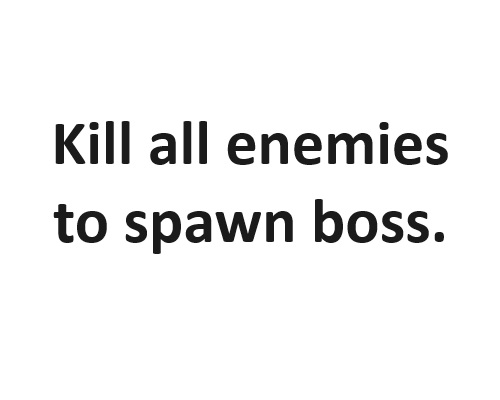
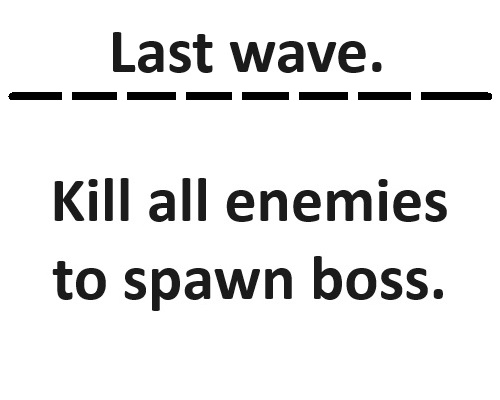
Add Menu Kill All To Win.

diff --git a/app/jni/src/playState/PlayStateGUILayer.cpp b/app/jni/src/playState/PlayStateGUILayer.cpp
@@ -75,7 +75,8 @@ namespace MagneticBall3D
         m_resurrectButtonOkTexture = Beryll::Renderer::createTexture("GUI/Ok.jpg", Beryll::TextureType::DIFFUSE_TEXTURE_MAT_1);
         m_resurrectNoCrystalsTexture = Beryll::Renderer::createTexture("GUI/playState/ResurrectNoCrystals.jpg", Beryll::TextureType::DIFFUSE_TEXTURE_MAT_1);
         m_loseTexture = Beryll::Renderer::createTexture("GUI/playState/Lose.jpg", Beryll::TextureType::DIFFUSE_TEXTURE_MAT_1);
-        m_killAllTexture = Beryll::Renderer::createTexture("GUI/playState/KillAllEnemiesToSpawnBoss.jpg", Beryll::TextureType::DIFFUSE_TEXTURE_MAT_1);
+        m_killAllToSpawnBossTexture = Beryll::Renderer::createTexture("GUI/playState/KillAllEnemiesToSpawnBoss.jpg", Beryll::TextureType::DIFFUSE_TEXTURE_MAT_1);
+        m_killAllToWinTexture = Beryll::Renderer::createTexture("GUI/playState/KillAllEnemiesToWin.jpg", Beryll::TextureType::DIFFUSE_TEXTURE_MAT_1);
         m_killAllButtonOkTexture = Beryll::Renderer::createTexture("GUI/Ok.jpg", Beryll::TextureType::DIFFUSE_TEXTURE_MAT_1);
         m_winTexture = Beryll::Renderer::createTexture("GUI/playState/Win.jpg", Beryll::TextureType::DIFFUSE_TEXTURE_MAT_1);
         m_winButtonOkTexture = Beryll::Renderer::createTexture("GUI/Ok.jpg", Beryll::TextureType::DIFFUSE_TEXTURE_MAT_1);
@@ -397,13 +398,22 @@ namespace MagneticBall3D
             ImGui::End();
         }
 
+        // Menu kill all can be before boss or without boss.
         if(m_menuKillAllEnabled)
         {
             ImGui::SetNextWindowPos(ImVec2(0.2f * Beryll::MainImGUI::getInstance()->getGUIWidth(), 0.25f * Beryll::MainImGUI::getInstance()->getGUIHeight()));
             ImGui::SetNextWindowSize(ImVec2(0.0f, 0.0f));
             ImGui::Begin(m_killAllTextureID.c_str(), nullptr, m_noBackgroundNoFrame);
-            ImGui::Image(reinterpret_cast<ImTextureID>(m_killAllTexture->getID()),
-                         ImVec2(0.6f * Beryll::MainImGUI::getInstance()->getGUIWidth(), 0.25f * Beryll::MainImGUI::getInstance()->getGUIHeight()));
+            if(m_killAllToSpawnBoss) // Show message to spawn boss.
+            {
+                ImGui::Image(reinterpret_cast<ImTextureID>(m_killAllToSpawnBossTexture->getID()),
+                             ImVec2(0.6f * Beryll::MainImGUI::getInstance()->getGUIWidth(), 0.25f * Beryll::MainImGUI::getInstance()->getGUIHeight()));
+            }
+            else // Show message to win without boss.
+            {
+                ImGui::Image(reinterpret_cast<ImTextureID>(m_killAllToWinTexture->getID()),
+                             ImVec2(0.6f * Beryll::MainImGUI::getInstance()->getGUIWidth(), 0.25f * Beryll::MainImGUI::getInstance()->getGUIHeight()));
+            }
             ImGui::End();
 
             ImGui::SetNextWindowPos(ImVec2(0.35f * Beryll::MainImGUI::getInstance()->getGUIWidth(), 0.5f * Beryll::MainImGUI::getInstance()->getGUIHeight()));
@@ -477,12 +487,26 @@ namespace MagneticBall3D
         m_timeAppearsOnScreen = Beryll::TimeStep::getSecFromStart();
     }
 
-    void PlayStateGUILayer::showMenuKillAllBeforeBoss()
+    void PlayStateGUILayer::showMenuKillAllToSpawnBoss()
     {
         if(m_menuKillAllEnabled)
             return;
 
         m_menuKillAllEnabled = true;
+        m_killAllToSpawnBoss = true;
+
+        GameStateHelper::pauseGame();
+
+        m_timeAppearsOnScreen = Beryll::TimeStep::getSecFromStart();
+    }
+
+    void PlayStateGUILayer::showMenuKillAllToWin()
+    {
+        if(m_menuKillAllEnabled)
+            return;
+
+        m_menuKillAllEnabled = true;
+        m_killAllToSpawnBoss = false;
 
         GameStateHelper::pauseGame();
 

diff --git a/app/jni/src/maps/Map1.cpp b/app/jni/src/maps/Map1.cpp
@@ -339,7 +339,7 @@ namespace MagneticBall3D
             }
         }
 
-        for(int i = 0; i < 5; ++i) // 5 * 5 = 25
+        for(int i = 0; i < 4; ++i) // 4 * 5 = 20
         {
             const auto garbageCopShield = Beryll::SimpleCollidingObject::loadManyModelsFromOneFile("models3D/map1/GarbageCopShield_5items.fbx",
                                                                                                    EnumsAndVars::garbageMass,
@@ -363,7 +363,7 @@ namespace MagneticBall3D
             }
         }
 
-        for(int i = 0; i < 5; ++i) // 5 * 4 = 20
+        for(int i = 0; i < 6; ++i) // 6 * 3 = 18
         {
             const auto garbageCopGrenade = Beryll::SimpleCollidingObject::loadManyModelsFromOneFile("models3D/map1/GarbageCopGrenade_3items.fbx",
                                                                                                     EnumsAndVars::garbageMass,
@@ -411,7 +411,7 @@ namespace MagneticBall3D
             }
         }
 
-        for(int i = 0; i < 5; ++i) // 5 * 3 = 15
+        for(int i = 0; i < 6; ++i) // 6 * 3 = 18
         {
             const auto garbageTank = Beryll::SimpleCollidingObject::loadManyModelsFromOneFile("models3D/map1/GarbageTank_3items.fbx",
                                                                                               EnumsAndVars::garbageMass,
@@ -1047,9 +1047,9 @@ namespace MagneticBall3D
 
             BR_INFO("Prepare wave 12. Max enemies: %d", EnumsAndVars::enemiesMaxActiveCountOnGround);
         }
-        else if(m_prepareToBoss && EnumsAndVars::mapPlayTimeSec > m_prepareToBossTime)
+        else if(m_prepareLastWave && EnumsAndVars::mapPlayTimeSec > m_prepareLastWaveTime)
         {
-            m_prepareToBoss = false;
+            m_prepareLastWave = false;
 
             EnumsAndVars::enemiesMaxActiveCountOnGround = 0;
 
@@ -1058,9 +1058,9 @@ namespace MagneticBall3D
                 enemy->isCanBeSpawned = false;
             }
 
-            prepareToBossPhase();
+            BR_INFO("enemiesLastWavePhase(). Max enemies: %d", EnumsAndVars::enemiesMaxActiveCountOnGround);
 
-            BR_INFO("prepareToBossPhase(). Max enemies: %d", EnumsAndVars::enemiesMaxActiveCountOnGround);
+            lastWaveToBossPhase();
         }
 
         bool sortSnipersPositions = true;
@@ -1134,8 +1134,8 @@ namespace MagneticBall3D
         BR_INFO("%s", "startBossPhase()");
 
         m_gui->showMenuBossTankWithCommander();
+        EnumsAndVars::enemiesLastWavePhase = false;
         EnumsAndVars::bossPhase = true;
-        EnumsAndVars::prepareToBossPhase = false;
 
         // Enable boss.
         m_boss->enableBoss();

diff --git a/app/jni/src/maps/Map2.cpp b/app/jni/src/maps/Map2.cpp
@@ -21,7 +21,7 @@ namespace MagneticBall3D
 
         // Specific for this map only.
         loadPlayer();
-        m_player->getObj()->setOrigin(glm::vec3(-770.0f, 2.0f,-520.0f));
+        m_player->getObj()->setOrigin(glm::vec3(-120.0f, 2.0f,450.0f));
         m_improvements.setPlayer(m_player);
         Beryll::LoadingScreen::showProgress(20.0f);
         loadEnv();
@@ -40,7 +40,7 @@ namespace MagneticBall3D
         StaticEnemy::spawnDelay = 40.0f;
 
         loadShaders();
-        m_cameraOffset = glm::normalize(glm::vec3(-1.0f, 0.0f, -0.5f));
+        m_cameraOffset = glm::normalize(glm::vec3(0.5f, 0.0f, 1.0f));
         handleCamera();
 
         m_minX = -800.0f;
@@ -1054,9 +1054,9 @@ namespace MagneticBall3D
 
             BR_INFO("Prepare wave 12. Max enemies: %d", EnumsAndVars::enemiesMaxActiveCountOnGround);
         }
-        else if(m_prepareToBoss && EnumsAndVars::mapPlayTimeSec > m_prepareToBossTime)
+        else if(m_prepareLastWave && EnumsAndVars::mapPlayTimeSec > m_prepareLastWaveTime)
         {
-            m_prepareToBoss = false;
+            m_prepareLastWave = false;
 
             EnumsAndVars::enemiesMaxActiveCountOnGround = 0;
 
@@ -1065,9 +1065,9 @@ namespace MagneticBall3D
                 enemy->isCanBeSpawned = false;
             }
 
-            prepareToBossPhase();
+            BR_INFO("enemiesLastWavePhase(). Max enemies: %d", EnumsAndVars::enemiesMaxActiveCountOnGround);
 
-            BR_INFO("prepareToBossPhase(). Max enemies: %d", EnumsAndVars::enemiesMaxActiveCountOnGround);
+            lastWaveToWinPhase();
         }
 
         // Spawn enemies.
@@ -1119,14 +1119,14 @@ namespace MagneticBall3D
 
     void Map2::startBossPhase()
     {
-        EnumsAndVars::bossPhase = true;
-        EnumsAndVars::prepareToBossPhase = false;
+        //EnumsAndVars::bossPhase = true;
+        //EnumsAndVars::enemiesLastWavePhase = false;
     }
 
     void Map2::handlePossPhase()
     {
 
-        EnumsAndVars::mapPlayerWin = true;
+        //EnumsAndVars::mapPlayerWin = true;
     }
 
     void Map2::spawnCommonGarbage()

diff --git a/app/jni/src/maps/BaseMap.cpp b/app/jni/src/maps/BaseMap.cpp
@@ -103,8 +103,15 @@ namespace MagneticBall3D
         updateAndMagnetizeGarbage();
         killEnemies();
 
-        if(EnumsAndVars::prepareToBossPhase && BaseEnemy::getActiveCount() <= 0)
-            startBossPhase();
+        if(EnumsAndVars::enemiesLastWavePhase && BaseEnemy::getActiveCount() <= 0)
+        {
+            BR_INFO("%s", "if(EnumsAndVars::enemiesLastWavePhase && BaseEnemy::getActiveCount() <= 0)");
+
+            if(EnumsAndVars::mapHasBossPhase)
+                startBossPhase();
+            else
+                EnumsAndVars::mapPlayerWin = true;
+        }
         else if(EnumsAndVars::bossPhase)
             handlePossPhase();
 
@@ -837,6 +844,8 @@ namespace MagneticBall3D
                 m_cameraDistance -= EnumsAndVars::cameraZoomMaxSpeed * std::min(0.04f, Beryll::TimeStep::getTimeStepSec());
         }
 
+        if(glm::isnan(m_cameraDistance) || m_cameraDistance < 1.0f)
+            m_cameraDistance = 1.0f;
 
         Beryll::Camera::setCameraPos(m_cameraFront + m_cameraOffset * m_cameraDistance);
         Beryll::Camera::setCameraFrontPos(m_cameraFront);
@@ -1007,12 +1016,25 @@ namespace MagneticBall3D
         }
     }
 
-    void BaseMap::prepareToBossPhase()
+    void BaseMap::lastWaveToBossPhase()
     {
-        BR_INFO("%s", "prepareToBossPhase()");
+        BR_INFO("%s", "lastWaveToBossPhase()");
 
-        m_gui->showMenuKillAllBeforeBoss();
-        EnumsAndVars::prepareToBossPhase = true;
+        m_gui->showMenuKillAllToSpawnBoss();
+
+        EnumsAndVars::enemiesLastWavePhase = true;
+        EnumsAndVars::mapHasBossPhase = true;
+        EnumsAndVars::bossPhase = false;
+    }
+
+    void BaseMap::lastWaveToWinPhase()
+    {
+        BR_INFO("%s", "lastWaveToWinPhase()");
+
+        m_gui->showMenuKillAllToWin();
+
+        EnumsAndVars::enemiesLastWavePhase = true;
+        EnumsAndVars::mapHasBossPhase = false;
         EnumsAndVars::bossPhase = false;
     }
 }

diff --git a/app/jni/src/playState/PlayStateGUILayer.h b/app/jni/src/playState/PlayStateGUILayer.h
@@ -18,7 +18,8 @@ namespace MagneticBall3D
 
         void showMenuResurrect();
         void showMenuResurrectNoCrystals();
-        void showMenuKillAllBeforeBoss();
+        void showMenuKillAllToSpawnBoss();
+        void showMenuKillAllToWin();
         void showMenuLose();
         void showMenuWin();
 
@@ -126,13 +127,15 @@ namespace MagneticBall3D
         std::unique_ptr<Beryll::Texture> m_loseTexture;
         bool m_menuLoseEnabled = false;
 
-        // Kill all enemies before boss.
+        // Last wave kill all enemies.
         static const std::string m_killAllTextureID;
-        std::unique_ptr<Beryll::Texture> m_killAllTexture;
+        std::unique_ptr<Beryll::Texture> m_killAllToSpawnBossTexture; // If map has boss.
+        std::unique_ptr<Beryll::Texture> m_killAllToWinTexture; // Without boss.
         static const std::string m_killAllButtonOkID;
         std::unique_ptr<Beryll::Texture> m_killAllButtonOkTexture;
         bool m_menuKillAllEnabled = false;
         bool m_killAllButtonClicked = false;
+        bool m_killAllToSpawnBoss = false;
 
         // Win.
         static const std::string m_winTextureID;

diff --git a/app/jni/src/EnumsAndVariables.h b/app/jni/src/EnumsAndVariables.h
@@ -164,8 +164,10 @@ namespace EnumsAndVars
     inline int mapSwipeCount = 0.0f;
     inline bool mapPlayerWin = false; // true = player win.
 
+    // Enemies last wave.
+    inline bool enemiesLastWavePhase = false;
     // Boss.
-    inline bool prepareToBossPhase = false;
+    inline bool mapHasBossPhase = false;
     inline bool bossPhase = false;
 
     inline void reset()
@@ -210,8 +212,10 @@ namespace EnumsAndVars
         mapSwipeCount = 0.0f;
         mapPlayerWin = false;
 
+        // Enemies last wave.
+        enemiesLastWavePhase = false;
         // Boss.
-        prepareToBossPhase = false;
+        mapHasBossPhase = false;
         bossPhase = false;
     }
 }

diff --git a/app/jni/src/maps/BaseMap.h b/app/jni/src/maps/BaseMap.h
@@ -54,9 +54,10 @@ namespace MagneticBall3D
         void respawnEnemiesAtNewDistance(float minDistance);
 
         // Boss phase.
-        void prepareToBossPhase(); // At last enemies wave.
-        virtual void startBossPhase() = 0;
-        virtual void handlePossPhase() = 0;
+        void lastWaveToBossPhase(); // At last enemies wave if map has boss.
+        void lastWaveToWinPhase(); // At last enemies wave if map without boss.
+        virtual void startBossPhase() {}; // Maps with boss must override that.
+        virtual void handlePossPhase() {};
 
     protected:
         std::shared_ptr<PlayStateGUILayer> m_gui;

diff --git a/app/jni/src/maps/Map1.h b/app/jni/src/maps/Map1.h
@@ -48,8 +48,8 @@ namespace MagneticBall3D
         bool m_prepareWave12 = true;
         const float m_enemiesWave12Time = 330.0f;
 
-        // Prepare to boss.
-        bool m_prepareToBoss = true;
-        const float m_prepareToBossTime = 4360.0f;
+        // Last wave.
+        bool m_prepareLastWave = true;
+        const float m_prepareLastWaveTime = 360.0f;
     };
 }

diff --git a/app/jni/src/maps/Map2.h b/app/jni/src/maps/Map2.h
@@ -50,8 +50,8 @@ namespace MagneticBall3D
         bool m_prepareWave12 = true;
         const float m_enemiesWave12Time = 330.0f;
 
-        // Prepare to boss.
-        bool m_prepareToBoss = true;
-        const float m_prepareToBossTime = 360.0f;
+        // Last wave.
+        bool m_prepareLastWave = true;
+        const float m_prepareLastWaveTime = 360.0f;
     };
 }
